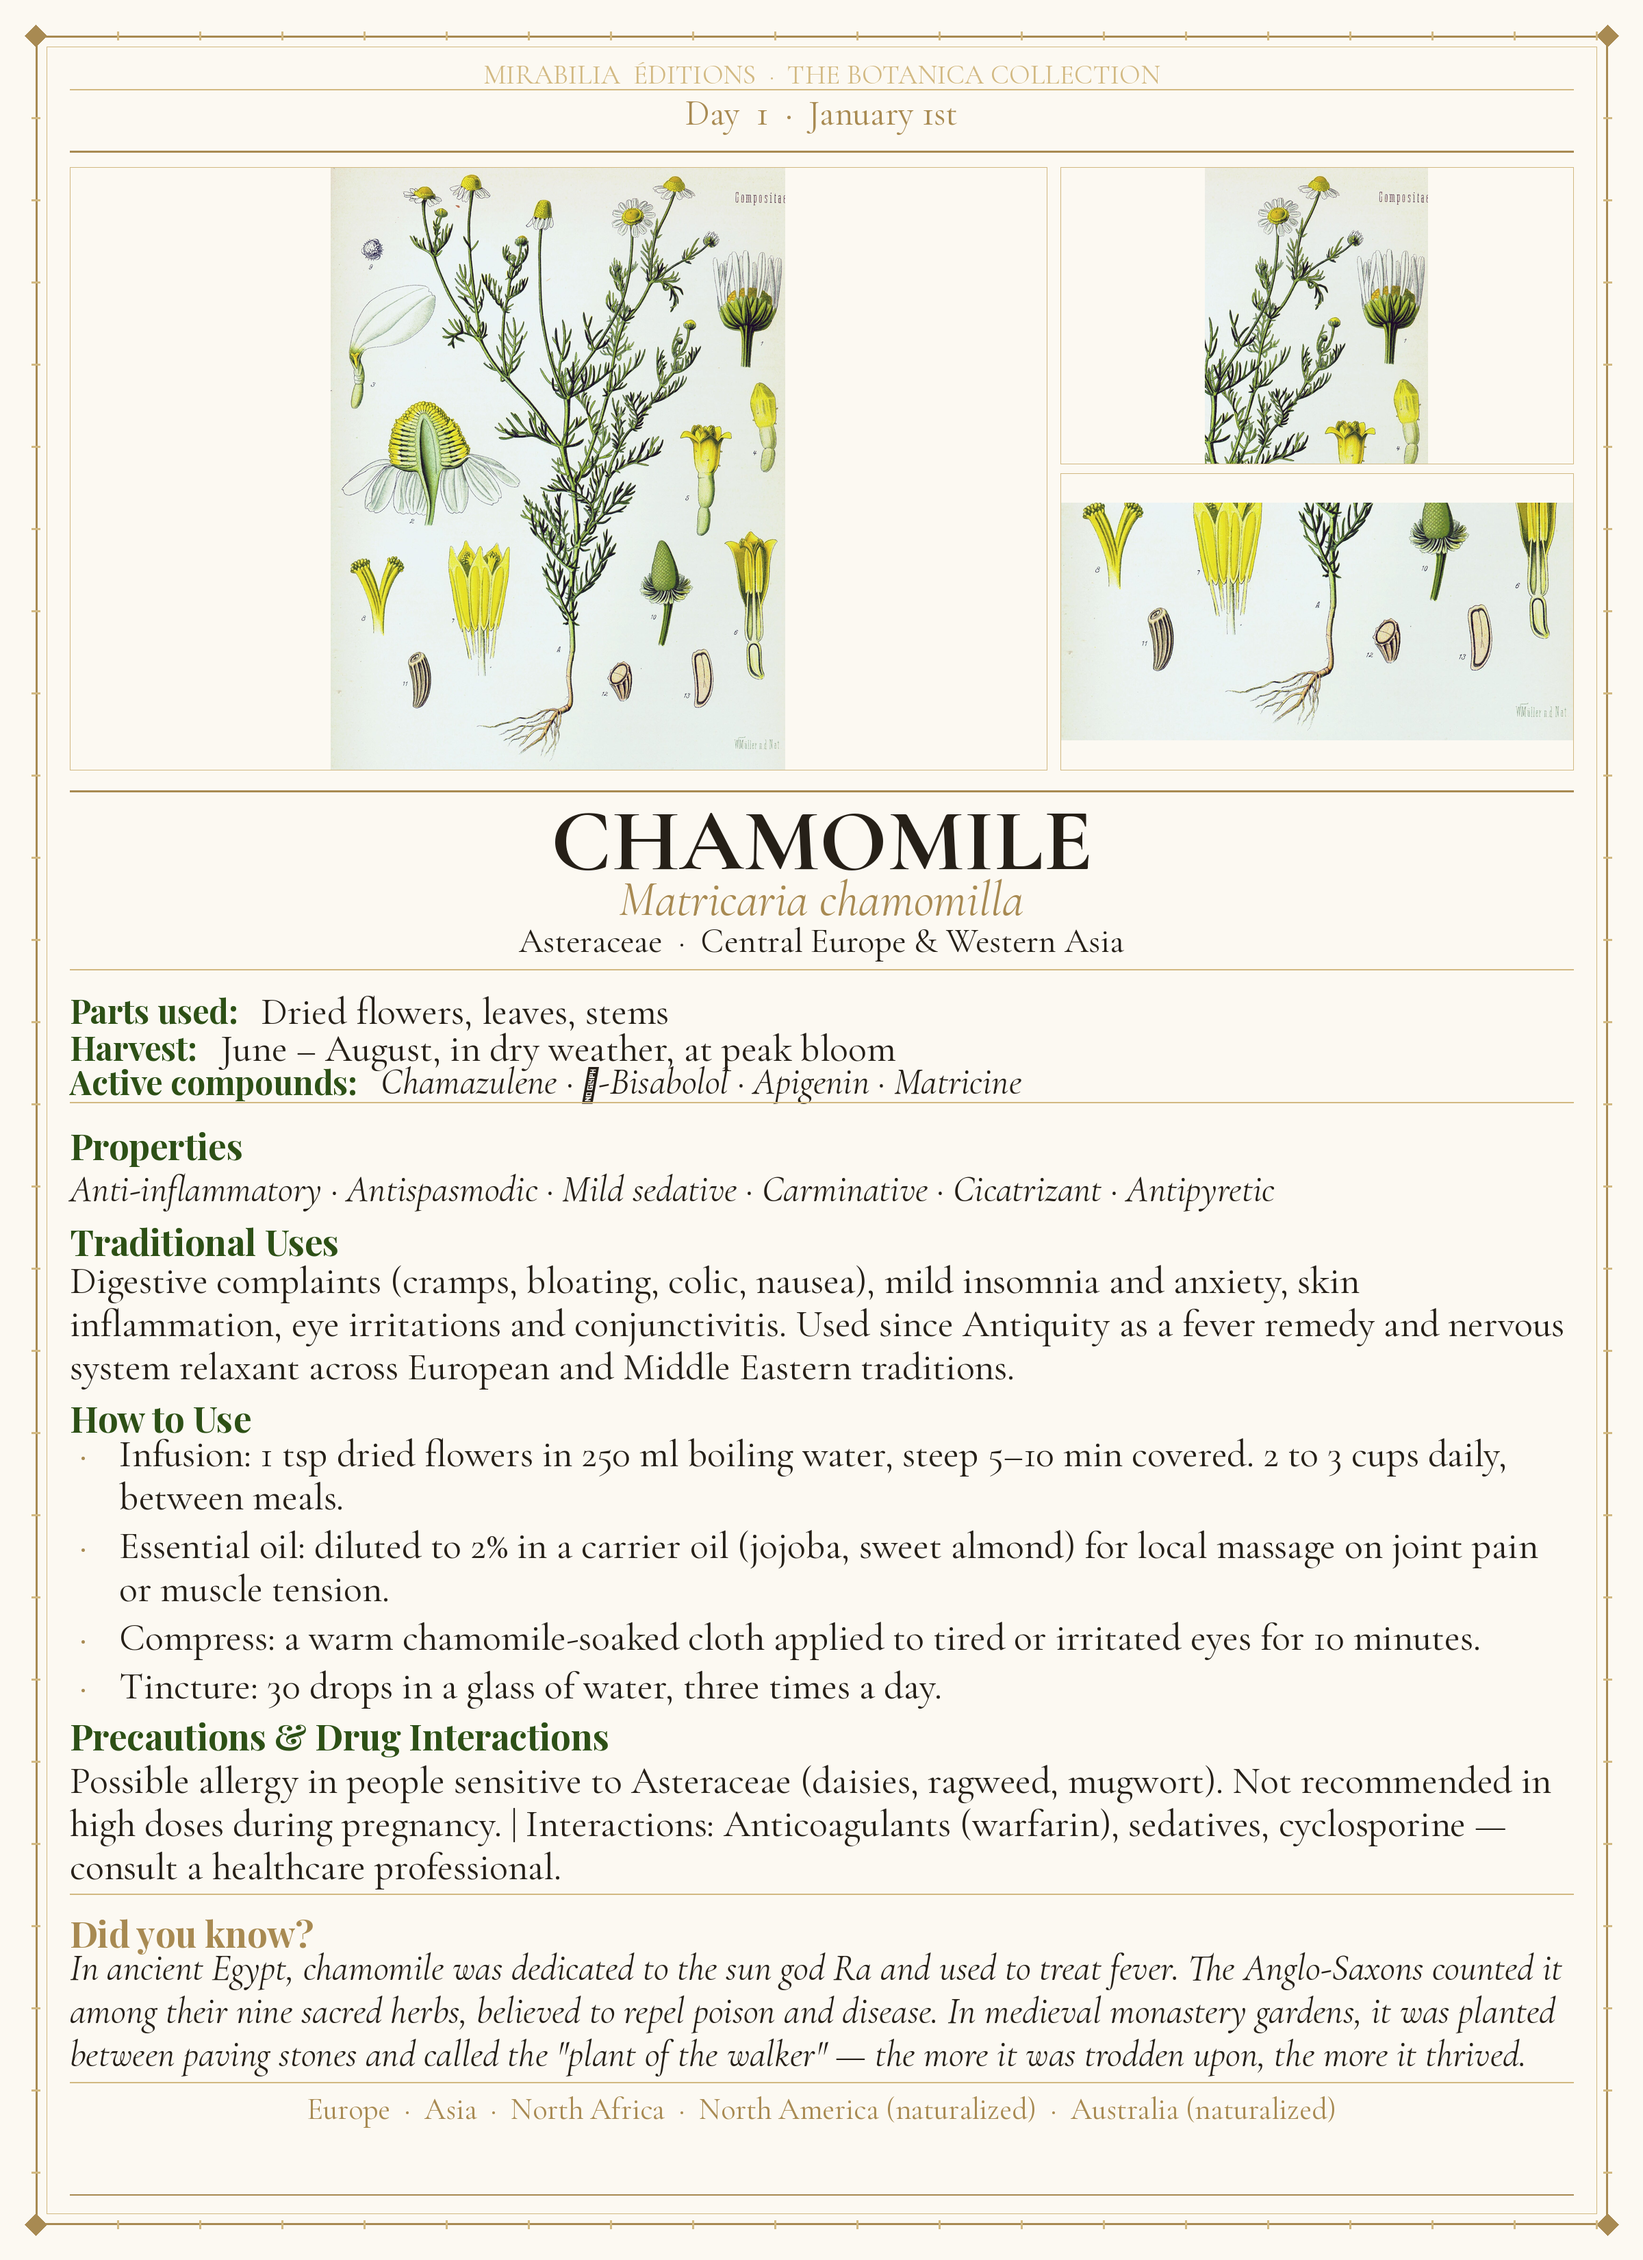
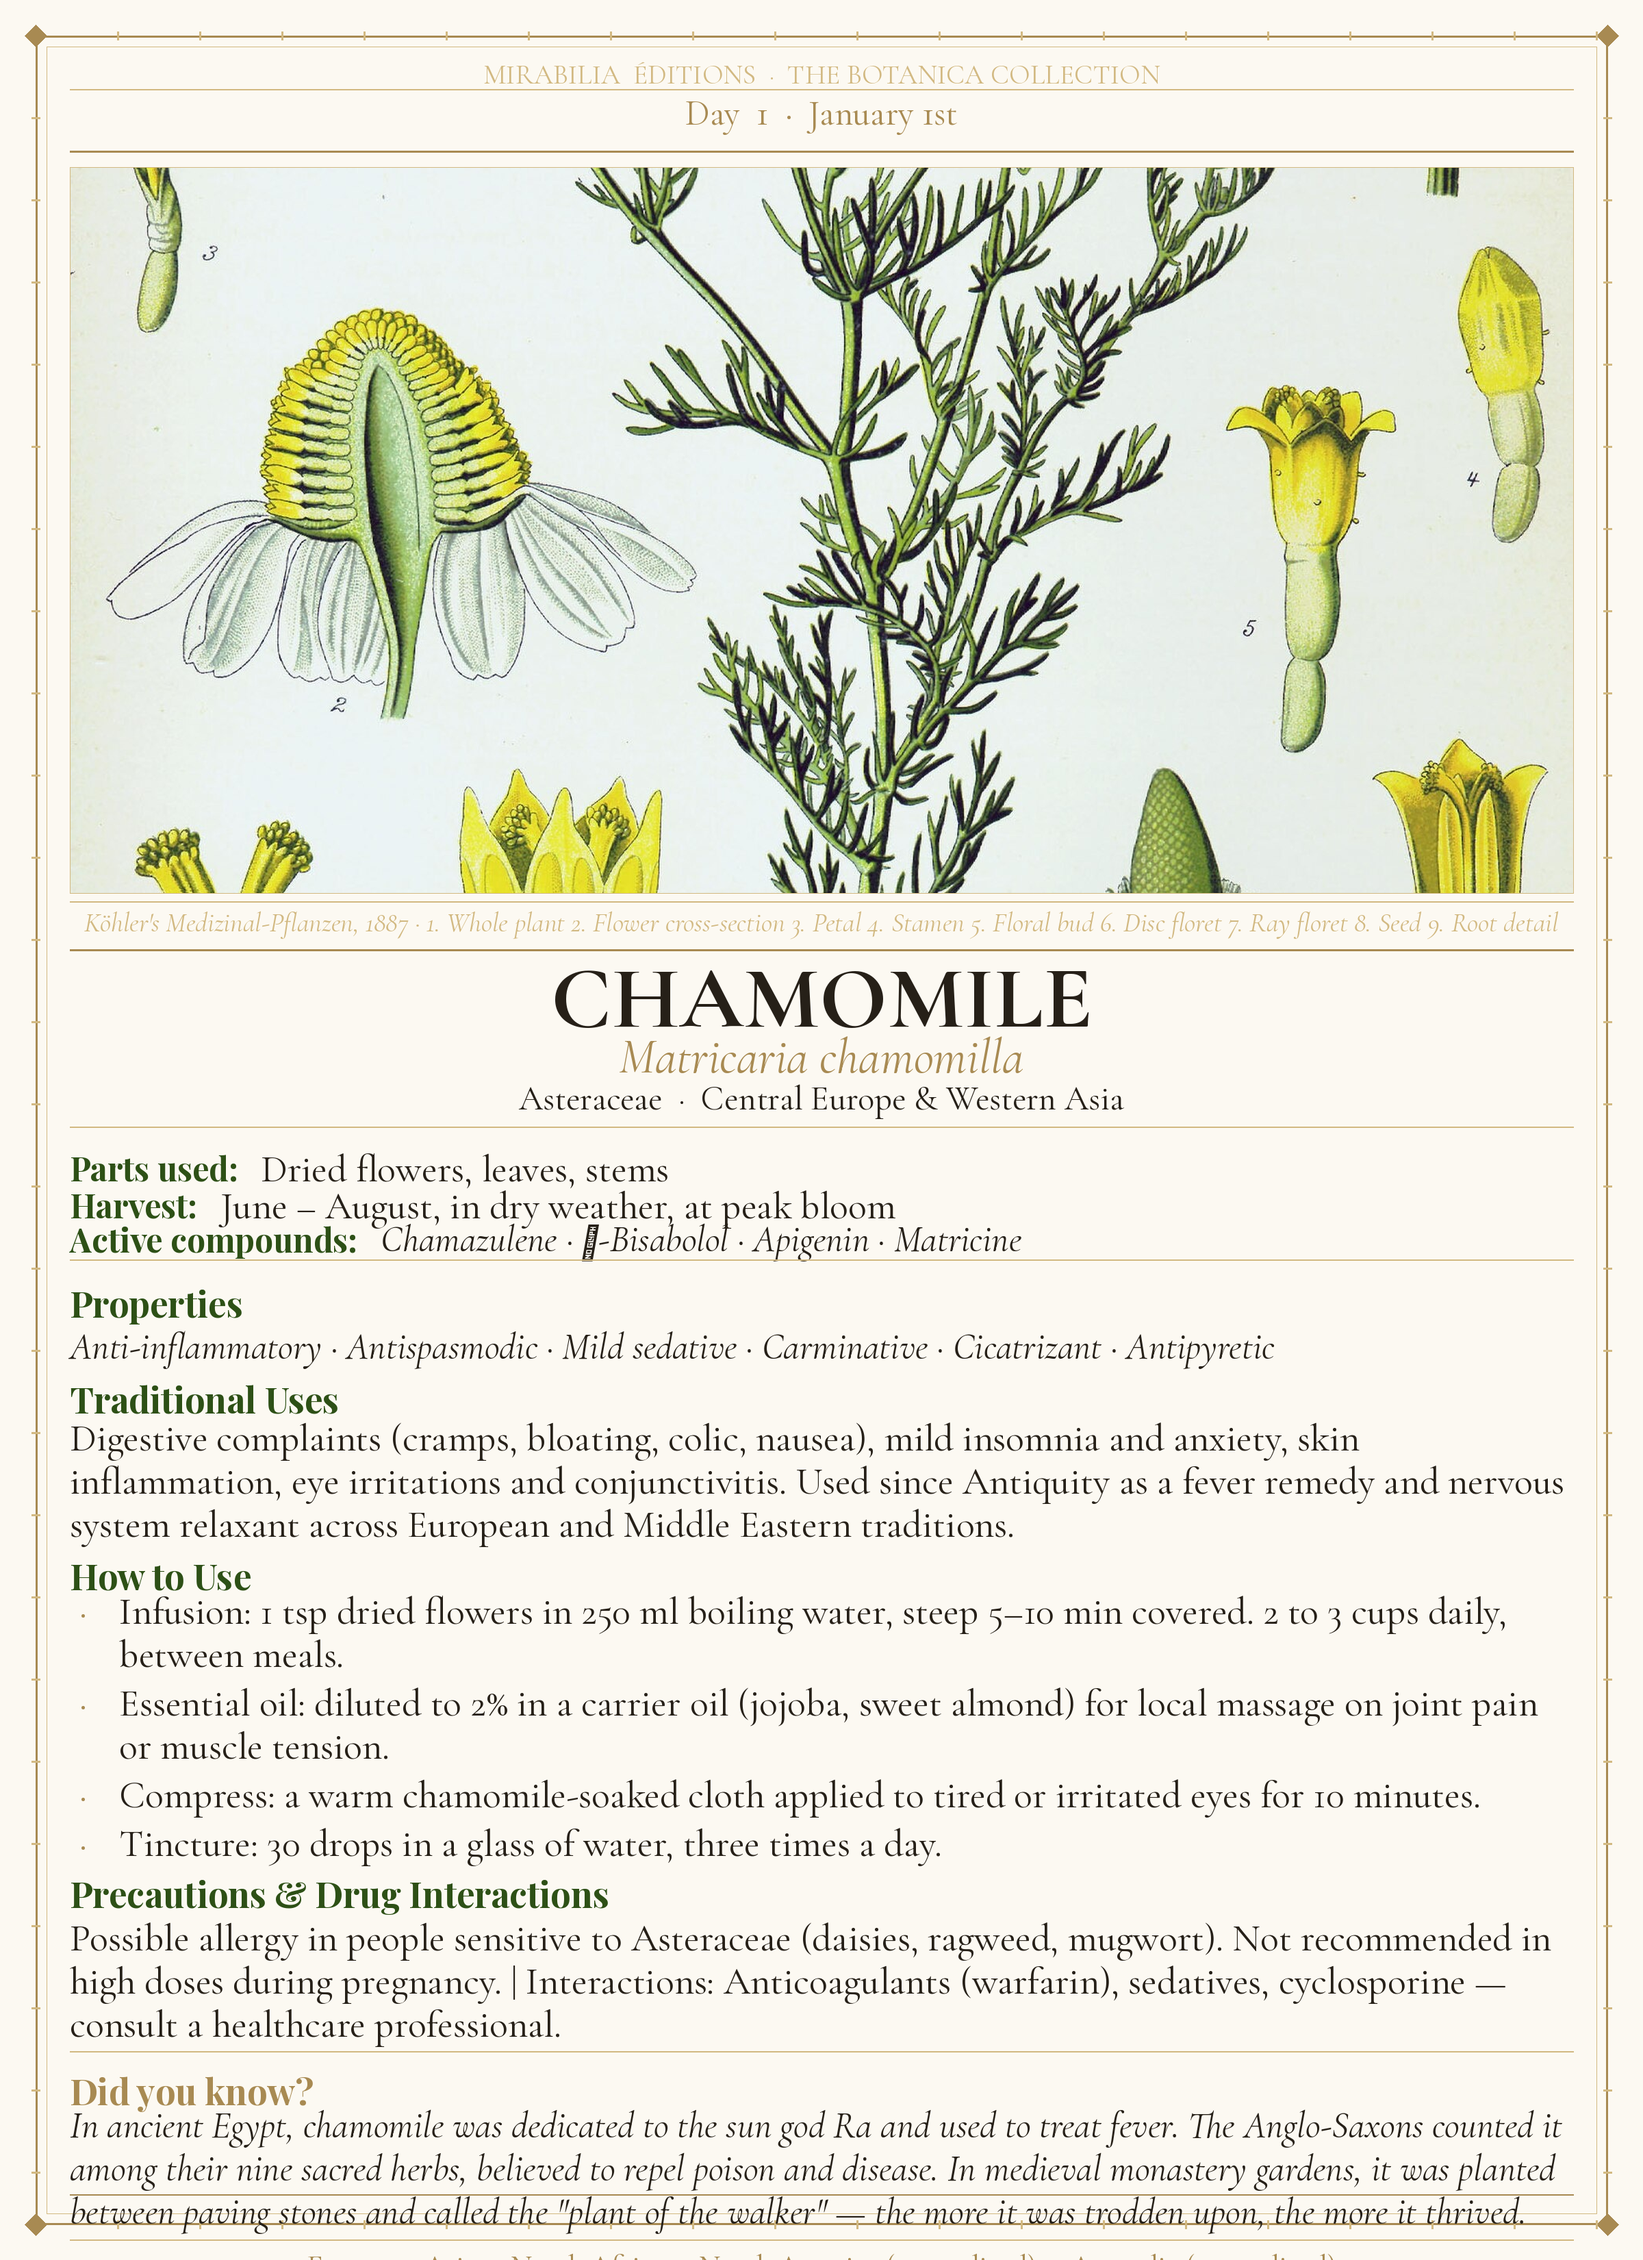
Full-width illustration with numbered caption on Botanica page
Scale Köhler plate to fill page width with centre-crop to preserve
the richest botanical detail. Numbered caption identifies all plate
parts (whole plant, cross-section, petal, stamen, seed, root).

https://claude.ai/code/session_018BNd1Ba7eFukj4va47McZo

diff --git a/make_botanica_page.py b/make_botanica_page.py
@@ -203,40 +203,59 @@ def make_botanica_page(
     hline(d, y, color=GOLD, h=2)
     y += 24
 
-    # ── Illustrations ─────────────────────────────────────────────────
-    # Main illustration (left 2/3) + 2 detail squares (right 1/3 stacked)
-    ILLUS_H    = 880
-    main_x1    = MARGIN + int(TW * 0.65)
-    detail_x0  = main_x1 + 20
-    detail_x1  = W - MARGIN
-    detail_h   = (ILLUS_H - 14) // 2
+    # ── Illustration — fill full width, centre-crop height ───────────
+    ILLUS_TARGET_H = 1060
+    ix0, ix1       = MARGIN, W - MARGIN
+    iw             = ix1 - ix0
 
-    # Main
-    if illus_main and paste_illustration(img, illus_main, MARGIN, y, main_x1, y + ILLUS_H):
-        d.rectangle([MARGIN, y, main_x1, y + ILLUS_H], outline=LGOLD, width=1)
+    fn_cap = ImageFont.truetype(FC_ITAL, 40)
+
+    if illus_main and os.path.exists(illus_main):
+        try:
+            raw   = Image.open(illus_main).convert("RGB")
+            # Scale to fill full width
+            scale = iw / raw.width
+            sw    = iw
+            sh    = int(raw.height * scale)
+            sized = raw.resize((sw, sh), Image.LANCZOS)
+
+            if sh > ILLUS_TARGET_H:
+                # Centre-crop vertically: keep the richest middle band
+                top = (sh - ILLUS_TARGET_H) // 2
+                sized = sized.crop((0, top, sw, top + ILLUS_TARGET_H))
+                used_h = ILLUS_TARGET_H
+            else:
+                used_h = sh
+
+            img.paste(sized, (ix0, y))
+            d.rectangle([ix0, y, ix1, y + used_h], outline=LGOLD, width=1)
+        except Exception as e:
+            print(f"  ✗ illustration: {e}")
+            illus_placeholder(img, d, ix0, y, ix1, y + ILLUS_TARGET_H,
+                              f"{name_la}", "Full plant · Köhler 1887")
+            used_h = ILLUS_TARGET_H
     else:
-        illus_placeholder(img, d, MARGIN, y, main_x1, y + ILLUS_H,
+        illus_placeholder(img, d, ix0, y, ix1, y + ILLUS_TARGET_H,
                           f"{name_la}", "Full plant · Köhler 1887")
+        used_h = ILLUS_TARGET_H
 
-    # Detail 1
-    if illus_detail1 and paste_illustration(img, illus_detail1, detail_x0, y, detail_x1, y + detail_h):
-        d.rectangle([detail_x0, y, detail_x1, y + detail_h], outline=LGOLD, width=1)
-    else:
-        illus_placeholder(img, d, detail_x0, y, detail_x1, y + detail_h,
-                          "Flower detail")
+    y += used_h + 12
 
-    # Detail 2
-    dy2 = y + detail_h + 14
-    if illus_detail2 and paste_illustration(img, illus_detail2, detail_x0, dy2, detail_x1, dy2 + detail_h):
-        d.rectangle([detail_x0, dy2, detail_x1, dy2 + detail_h], outline=LGOLD, width=1)
-    else:
-        illus_placeholder(img, d, detail_x0, dy2, detail_x1, dy2 + detail_h,
-                          "Root & seed")
-
-    y += ILLUS_H + 30
-
+    # ── Caption ───────────────────────────────────────────────────────
+    hline(d, y, color=LGOLD, h=1)
+    y += 14
+    caption = (
+        "Köhler's Medizinal-Pflanzen, 1887  ·  "
+        "1. Whole plant  2. Flower cross-section  3. Petal  "
+        "4. Stamen  5. Floral bud  6. Disc floret  "
+        "7. Ray floret  8. Seed  9. Root detail"
+    )
+    for line in wrap(caption, fn_cap, TW, d):
+        d.text((CX, y), line, fill=LGOLD, font=fn_cap, anchor="mt")
+        y += text_h(line, fn_cap, d) + 6
+    y += 8
     hline(d, y, color=GOLD, h=2)
-    y += 32
+    y += 30
 
     # ── Plant name ────────────────────────────────────────────────────
     d.text((CX, y), name_fr.upper(), fill=DARK, font=fn_name, anchor="mt")
